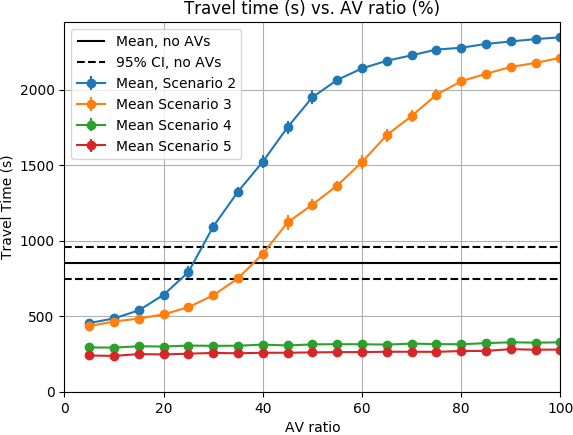
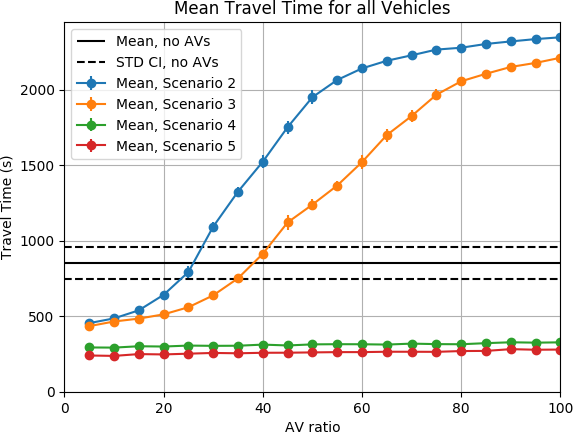
new-image-versions

Changed region(s): [[0.267, 0.2092, 0.4154, 0.3586], [0.2967, 0.0, 0.801, 0.0299], [0.2077, 0.1195, 0.3857, 0.1793]]

diff --git a/main2.py b/main2.py
@@ -169,7 +169,7 @@ ax = df2.plot(
     marker='o', 
     yerr='std_travel',
     ylim=(0, None),
-    title='Travel time (s) vs. AV ratio (%)',
+    title='Mean Travel Time for all Vehicles',
     grid=True,
 )
 
@@ -179,7 +179,7 @@ ax = df3.plot(ax=ax,
     marker='o', 
     yerr='std_travel',
     ylim=(0, None),
-    title='Travel time (s) vs. AV ratio (%)',
+    title='Mean Travel Time for all Vehicles',
     grid=True,
 )
 
@@ -189,7 +189,7 @@ ax = df4.plot(ax=ax,
     marker='o', 
     yerr='std_travel',
     ylim=(0, None),
-    title='Travel time (s) vs. AV ratio (%)',
+    title='Mean Travel Time for all Vehicles',
     grid=True,
 )
 
@@ -199,7 +199,7 @@ ax = df5.plot(ax=ax,
     marker='o', 
     yerr='std_travel',
     ylim=(0, None),
-    title='Travel time (s) vs. AV ratio (%)',
+    title='Mean Travel Time for all Vehicles',
     grid=True,
 )
 
@@ -209,7 +209,7 @@ cet_std = 53
 ax.hlines(y=cet_mean, xmin=0, xmax=100)
 ax.hlines(y=[cet_mean+2*cet_std, cet_mean-2*cet_std], xmin=0, xmax=100, linestyle='--')
 
-ax.legend(['Mean, no AVs', '95% CI, no AVs', 'Mean, Scenario 2', 'Mean Scenario 3', 'Mean Scenario 4', 'Mean Scenario 5'])
+ax.legend(['Mean, no AVs', 'STD, no AVs', 'Mean, Scenario 2', 'Mean, Scenario 3', 'Mean, Scenario 4', 'Mean, Scenario 5'])
 ax.set_xlabel("AV ratio")
 ax.set_ylabel("Travel Time (s)")
 
@@ -245,7 +245,7 @@ ax = df2.plot(
     marker='o', 
     yerr='std_travel',
     ylim=(0, None),
-    title='Travel time (s) vs. AV ratio (%)',
+    title='Mean Travel Time for all Vehicles',
     grid=True,
 )
 
@@ -255,7 +255,7 @@ ax = df3.plot(ax=ax,
     marker='o', 
     yerr='std_travel',
     ylim=(0, None),
-    title='Travel time (s) vs. AV ratio (%)',
+    title='Mean Travel Time for all Vehicles',
     grid=True,
 )
 
@@ -265,7 +265,7 @@ ax = df4.plot(ax=ax,
     marker='o', 
     yerr='std_travel',
     ylim=(0, None),
-    title='Travel time (s) vs. AV ratio (%)',
+    title='Mean Travel Time for all Vehicles',
     grid=True,
 )
 
@@ -275,7 +275,7 @@ ax = df5.plot(ax=ax,
     marker='o', 
     yerr='std_travel',
     ylim=(0, None),
-    title='Travel time (s) vs. AV ratio (%)',
+    title='Mean Travel Time for all Vehicles',
     grid=True,
 )
 
@@ -283,7 +283,7 @@ ax = df5.plot(ax=ax,
 ax.hlines(y=cet_mean, xmin=0, xmax=100)
 ax.hlines(y=[cet_mean+2*cet_std, cet_mean-2*cet_std], xmin=0, xmax=100, linestyle='--')
 
-ax.legend(['Mean, no AVs', '95% CI, no AVs', 'Mean, Scenario 2', 'Mean Scenario 3', 'Mean Scenario 4', 'Mean Scenario 5'])
+ax.legend(['Mean, no AVs', 'STD CI, no AVs', 'Mean, Scenario 2', 'Mean, Scenario 3', 'Mean, Scenario 4', 'Mean, Scenario 5'])
 ax.set_xlabel("AV ratio")
 ax.set_ylabel("Travel Time (s)")
 
@@ -323,7 +323,7 @@ ax = df2.plot(
     marker='o', 
     yerr='std_travel',
     ylim=(0, None),
-    title='Travel time (s) vs. AV ratio (%)',
+    title='Mean Travel Time for all Vehicles',
     grid=True,
 )
 
@@ -333,7 +333,7 @@ ax = df3.plot(ax=ax,
     marker='o', 
     yerr='std_travel',
     ylim=(0, None),
-    title='Travel time (s) vs. AV ratio (%)',
+    title='Mean Travel Time for all Vehicles',
     grid=True,
 )
 
@@ -344,7 +344,7 @@ ax = df4.plot(ax=ax,
     marker='o', 
     yerr='std_travel',
     ylim=(0, None),
-    title='Travel time (s) vs. AV ratio (%)',
+    title='Mean Travel Time for all Vehicles',
     grid=True,
 )
 
@@ -354,14 +354,14 @@ ax = df5.plot(ax=ax,
     marker='o', 
     yerr='std_travel',
     ylim=(0, None),
-    title='Travel time (s) vs. AV ratio (%)',
+    title='Mean Travel Time for all Vehicles',
     grid=True,
 )
 
 ax.hlines(y=cet_mean, xmin=0, xmax=100)
 ax.hlines(y=[cet_mean+2*cet_std, cet_mean-2*cet_std], xmin=0, xmax=100, linestyle='--')
 
-ax.legend(['Mean, no AVs', '95% CI, no AVs', 'Mean, Scenario 2', 'Mean Scenario 3', 'Mean Scenario 4', 'Mean Scenario 5'])
+ax.legend(['Mean, no AVs', 'STD, no AVs', 'Mean, Scenario 2', 'Mean, Scenario 3', 'Mean, Scenario 4', 'Mean, Scenario 5'])
 ax.set_xlabel("AV ratio")
 ax.set_ylabel("Travel Time (s)")
 
